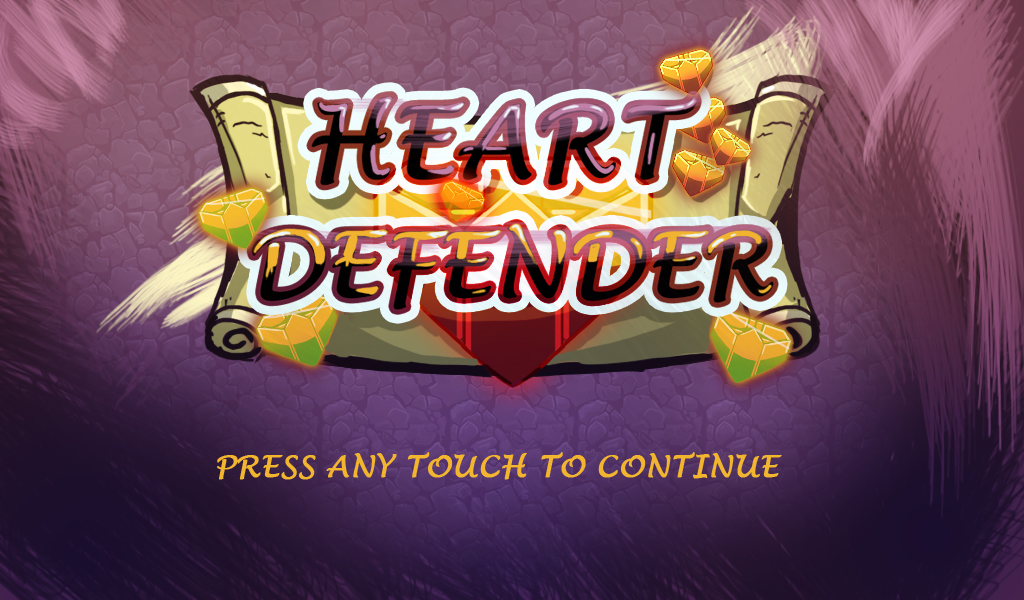
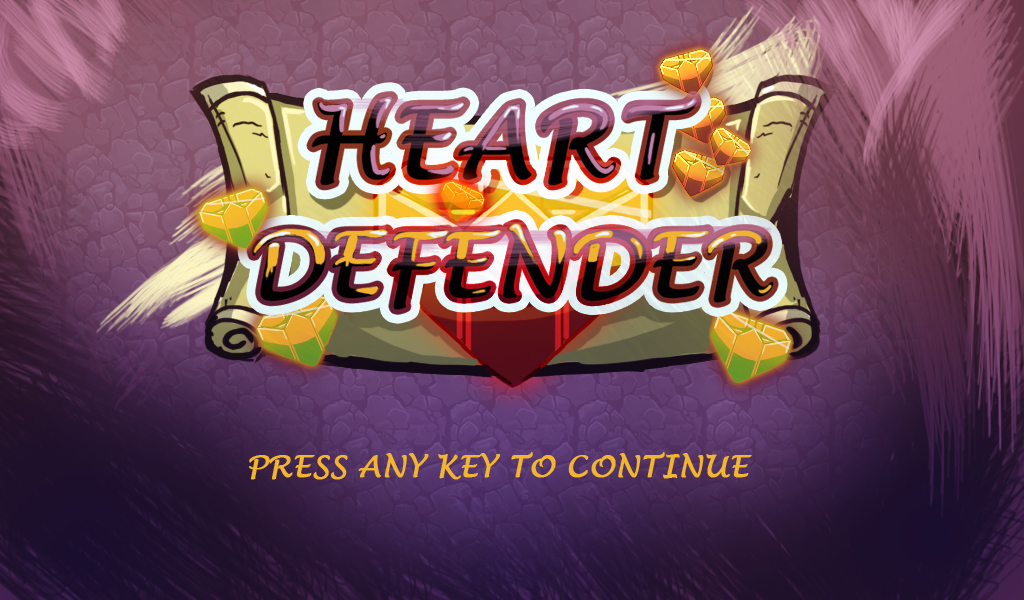
Intégration de la page de crédits / gameover

Changed region(s): [[0.2188, 0.75, 0.7812, 0.81]]

diff --git a/css/style.css b/css/style.css
@@ -12,7 +12,7 @@ body, html {
     height: 634px;
     margin: 0 0 0 -535px;
     position: absolute;
-    top: 30px;
+    top: 50px;
     left: 50%;
 }
 
@@ -31,18 +31,110 @@ body, html {
     -webkit-animation: bouger 5s infinite alternate;
 }
 
+#gameArea.gameover {
+    background : none;
+}
+
 #gameArea > #gameover {
-    background-color: transparent;
+    background : url('../img/gameover-screen.jpg') transparent no-repeat;
     left: 23px;
+    text-transform: uppercase;
     top: 17px;
 }
+
+    #gameover h2 {
+        color: #ffae00;
+        font-size: 30px;
+        margin-top: 195px;
+    }
+
+        #gameover h3 {
+            color: #ffae00;
+            font-size: 18px;
+            font-weight: normal;
+            margin-bottom: 0;
+            margin-top: 0;
+        }
+
+            #gameover .left {
+                float: left;
+                margin-left: 184px;
+                text-align: left;
+                width: 290px;
+            }
+
+            #gameover .right {
+                float: left;
+                margin-left: 64px;
+                text-align: left;
+                width: 350px;
+            }
+
+                #gameover .right .art {
+                    margin-left: 22px;
+                }
+
+                #gameover .right .sound ul {
+                    margin-bottom: 0;
+                }
+
+            #gameover ul {
+                margin-top: 0;
+                margin-left: 0;
+                padding-left: 0;
+                margin-bottom: 20px;
+            }
+
+                #gameover li {
+                    color: #FFF;
+                    font-size: 14px;
+                    list-style: none;
+                }
+
+                    #gameover .devs .first {
+                        margin-left: 28px;
+                    }
+
+                    #gameover .devs .second {
+                        margin-left: 67px; a
+                    }
+
+                    #gameover .devs .third {
+                        margin-left: 97px;
+                    }
+
+                    #gameover .sound .first {
+                        margin-left: 46px;
+                    }
+
+                    #gameover .art .first {
+                        margin-left: 35px;
+                    }
+
+            #gameover .score {
+                clear: both;
+                color: #FFF;
+                font-size: 30px;
+                padding-top: 20px;
+            }
+
+            #button_retry {
+                background: url('../img/button_retry.png') no-repeat transparent;
+            }
+
+            #gameover a,
+            #gameover a:visited {
+                display: block;
+                height: 111px;
+                margin: auto;
+                width: 127px;
+            }
 
 #gameArea > canvas#gameCanvas,
 #gameArea > #gameover {	
     width: 1024px;
     height: 600px;
 	position: absolute;
-
 }
 
 @-webkit-keyframes bouger {
@@ -62,18 +154,18 @@ body, html {
 	width: 1024px;
 	height: 30px;
 	position: absolute;
-	top: 0;
+	top: 10px;
 	left: 50%;
 	margin: 0 0 0 -512px;
 }
 #header #life {
     color: cyan;
-    font: normal 2em/1em SilkscreenNormal;
+    font: normal 2em/1em lucida_handwritingitalic;
     float: right;
 }
 #header #score {
-    color: lime;
-    font: normal 2em/1em SilkscreenNormal;
+    color: #f54a2e;
+    font: normal 2em/1em lucida_handwritingitalic;
     float: left;
 }
 
@@ -82,5 +174,5 @@ body, html {
 	display: none;
     color: red;
     text-align: center;
-    font: normal 2em/1em SilkscreenNormal;
+    font: normal 2em/1em lucida_handwritingitalic;
 }

diff --git a/js/Game.js b/js/Game.js
@@ -135,8 +135,11 @@ function Game()
 		// On anime le coeur
 		this.heart.animate();
 
-		// Ecouteur pour créer un tir ?
-		this.listenProjectiles();
+		if (!this.player.shot || interval(this.player.shot, ProjectileConf[this.player.projectileType].interval)) {
+			this.player.shot = +new Date();
+			// Ecouteur pour créer un tir ?
+			this.listenProjectiles();
+		}
 		// On anime les projectiles
 		this.MProjectile.animate();
 		// On anime les taches
@@ -156,19 +159,8 @@ function Game()
 
 	this.listenProjectiles = function() {
 
-		// this.player.weapon = 'lightning';
 		var conf = ProjectileConf[this.player.weapon];
 		if (input.mouse.click) {
-			
-			// this.MMessage.add({
-			// 	message : 'Salut',
-			// 	x : input.mouse.x,
-			// 	y : input.mouse.y,
-			// 	speed : rand(1, 3),
-			// 	decrementOpacity : .01,
-			// 	fontSize : rand(25,50),
-			// 	color : ['red', 'blue', 'orange', 'pink'].pickup()
-			// });
 
 			/*Détermine le type de destination selon la catégorie du projectile*/
 			// Initialise l'origine et la destination au centre du joueur
@@ -351,7 +343,7 @@ function Game()
 		{
 			this.generateEnemies();
 		}
-		debug(spawnInterval + " - " + maximumInGame);
+		// debug(spawnInterval + " - " + maximumInGame);
 
 		if(interval(this.heart.lastPop, GameConf.heart.SPAWN_TIME) === true &&
 			!this.heart.alive )
@@ -359,8 +351,10 @@ function Game()
 			this.heart.generate();
 		}
 
-		this.animate();
-		this.render();
+		if (!this.stop) {
+			this.animate();
+			this.render();
+		}
 	};
 
 	/**
@@ -430,12 +424,18 @@ function Game()
 	this.showGameover = function() {
 		this.shadow.sprite = this.sprites['img/full_shadow'];
 		$$("#gameover").innerHTML = GameConf.menu.GAMEOVER_DISPLAY.replace(/%SCORE%/, this.player.score);
+		$$("#score_value").innerHTML = this.player.score;
+		$$('#gameArea').className = "gameover";
+		$$('#gameCanvas').style.display = "none";
 		$$("#gameover").style.display = "block";
 		$$('#score').style.display = 'none';
 		$$('body').style.cursor = 'default';
 	}
 
 	this.hideGameover = function() {
+		this.shadow.sprite = this.sprites['img/shadow'];
+		$$('#gameArea').className = "loaded";
+		$$('#gameCanvas').style.display = "block";
 		$$('#gameover').style.display = 'none';
 		$$('#score').style.display = 'block';
 		$$('body').style.cursor = 'none';

diff --git a/conf/Game.cfg.js b/conf/Game.cfg.js
@@ -48,10 +48,31 @@ var GameConf =
 	},
 	menu : {
 		/*Bloc HTML de gameover*/
-		GAMEOVER_DISPLAY : '<h2>Game Over</h2>'+
-							'<h3>Darkness overkilled you !</h3>'+
-							'<p>Your score is %SCORE%.</p>'+
-							'<button onclick="restartGame()">Try to defeat the darkness ... again</button>'
+		GAMEOVER_DISPLAY : '<h2>The team "I"</h2>'+
+							'<div class="devs left">'+
+								'<h3>Développeur</h3>'+
+								'<ul>'+
+									'<li class="first">Jean-Marie (JMPP) Cléry</li>'+
+									'<li class="second">Gaëtan (Tweek) Régent</li>'+
+									'<li class="third">Emilien (Flex) Régent</li>'+
+								'</ul>'+
+							'</div>'+
+							'<div class="right">'+
+								'<div class="sound">'+
+									'<h3>Sound Designer</h3>'+
+									'<ul>'+
+										'<li class="first">Vincentiu Dioanca-Adam Septimiu</li>'+
+									'</ul>'+
+								'</div>'+
+								'<div class="art">'+
+									'<h3>Art</h3>'+
+									'<ul>'+
+										'<li class="first">Lionel Jabre</li>'+
+									'</ul>'+
+								'</div>'+
+							'</div>'+
+							'<p class="score">Your score is : <span id="score_value"></span></p>'+
+							'<a id="button_retry" href="#" onclick="restartGame(); return false;"></a>'
 	},
 	heart : {
 		SPAWN_TIME : 5, /*Délai de génération du bonus*/

diff --git a/js/Player.js b/js/Player.js
@@ -15,6 +15,7 @@ function Player(parentObj)
 	this.life = GameConf.player.LIFE;
 	this.score = 0;
 	this.weapon = 'arrow';
+	this.shot = false;
 
 	this.haveSaySomething = false;
 
@@ -146,6 +147,8 @@ function Player(parentObj)
 	 * Inflige une perte de point de vie au joueur
 	 **/
 	this.damage = function() {
+		// Ajout d'une tâche de sang à l'endroit de la collision (pke c gorre, mdrrr)
+		this.parentObj.MTache.add(this);
 		if(--this.life <= 0) {
 			// Remplacement du sprite player par le sprite player_killed
 			this.sprite = this.parentObj.sprites['img/player_dead'];
@@ -153,8 +156,6 @@ function Player(parentObj)
 			this.kill();
 		}
 		else {
-			// Ajout d'une tâche de sang à l'endroit de la collision (pke c gorre, mdrrr)
-			this.parentObj.MTache.add(this);
 			// Feedback sur la perte d'une vie
 			this.parentObj.MMessage.add({
 				message : '-1 UP',

diff --git a/index.html b/index.html
@@ -93,7 +93,7 @@
 		clean_bg.src = 'img/title-screen.jpg';
 		wait_bg = new Image();
 		wait_bg.src = 'img/title-screen-wait.jpg';
-		active_bg = 'wait';
+		active_bg = 'clean';
 
 
 		// ========== HEADTRACKR ============
@@ -113,7 +113,7 @@
 
 		waitingGame = function() {
 			// Waiting for press any key
-			if (interval(deltaTime, 2)) {
+			if (interval(deltaTime, 1)) {
 				if (active_bg == 'clean') {
 					ctx.drawImage(clean_bg,0,0);
 					active_bg = 'wait';
@@ -184,8 +184,8 @@
 			TIME = _t;
 			if (currentGameObject.waiting === true) {
 				input.listen();
-				if (input.keyboard.keypressed) {
-					
+				if (input.keyboard.keypressed || input.mouse.click) {
+					input.mouse.click = false;
 					$$('#gameArea').className += " loaded";
 					initSounds();
 					currentGameObject.init();

diff --git a/conf/Projectile.cfg.js b/conf/Projectile.cfg.js
@@ -5,7 +5,8 @@ var ProjectileConf = {
 		maxDistance : 1024, // distance maximale où peuvent aller les flèches
 		width : 72,
 		height : 49,
-		category : 'toCoords'
+		category : 'toCoords',
+		interval : 0.1
 	},
 	explosion : {
 		speed :8,
@@ -13,7 +14,8 @@ var ProjectileConf = {
 		lifetime : .5,
 		width : 77,
 		height : 79,
-		category : 'toCoords'
+		category : 'toCoords',
+		interval : 1
 	},
 	lightning : {
 		speed :5,
@@ -21,6 +23,7 @@ var ProjectileConf = {
 		lifetime : .5,
 		width : 57,
 		height : 130,
-		category : 'toTarget'
+		category : 'toTarget',
+		interval : 1
 	}
 };

diff --git a/js/functions.js b/js/functions.js
@@ -73,6 +73,7 @@ Array.prototype.pickup = Array.prototype.pickup || function() {
 
 // Teste si un interval est passé
 function interval(time, interval) {
+	log(Math.abs(time - new Date().getTime()) / 1000);
 	return Math.abs(time - new Date().getTime()) / 1000 > interval;
 }
 

diff --git a/js/Message.js b/js/Message.js
@@ -20,7 +20,6 @@ function Message(parentObj)
 	this.add = function(options) {
 
 		var c = options.callback === undefined ? function() {} : options.callback;
-		log(c);
 
 		this.messages.push({
 			message : options.message,

diff --git a/js/Heart.js b/js/Heart.js
@@ -85,7 +85,7 @@ function Heart(parentObj) {
 			this.tick = new Date().getTime();
 		}
 
-		if (this.lifeTime === 0) 
+		if (this.lifeTime === 0)
 			this.kill();
 			
 		//if en vie déclanche le battement
